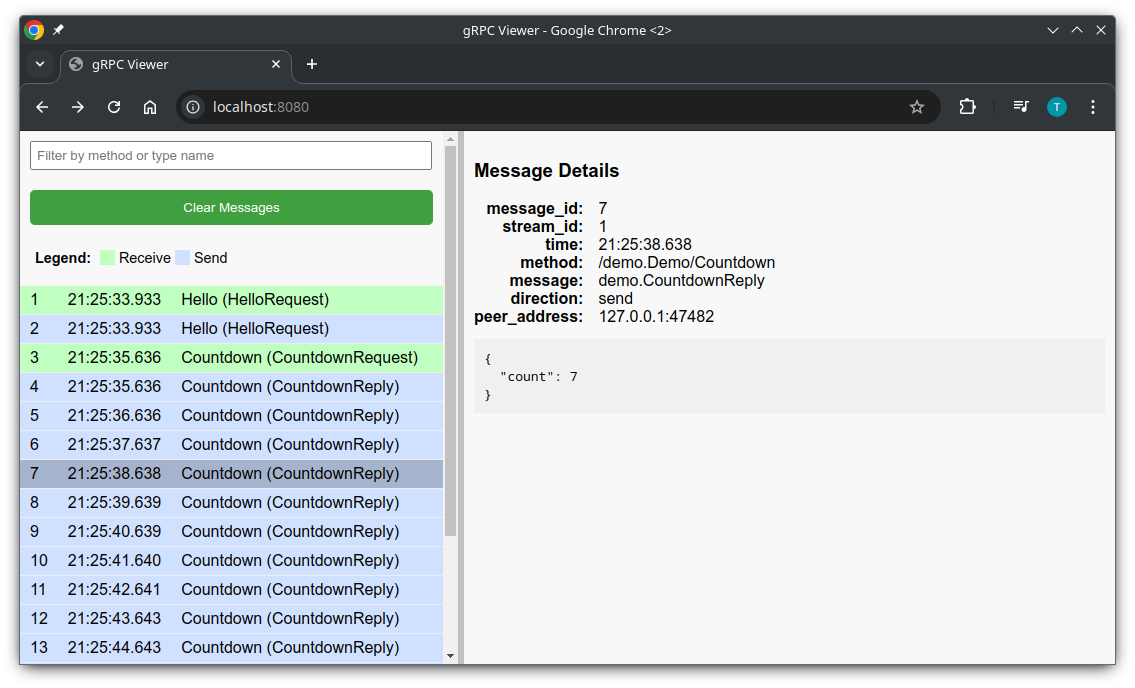
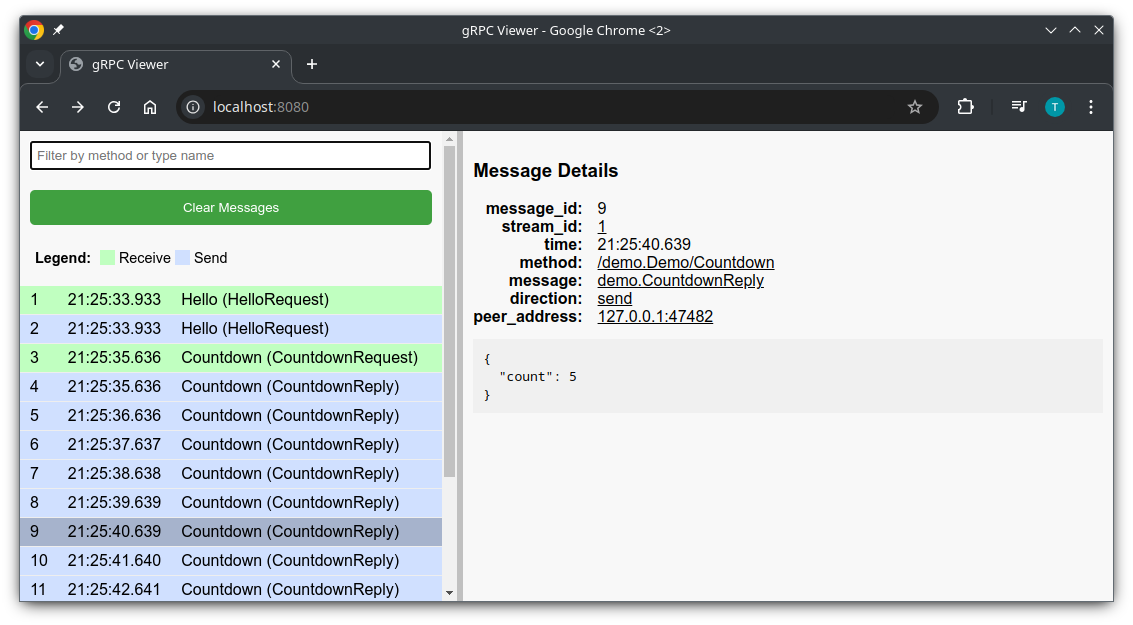
added keyboard navigation and links for search

diff --git a/public/grpc-viewer.js b/public/grpc-viewer.js
@@ -43,16 +43,19 @@ class GrpcViewer {
     matchesFilter(msg, filter) {
         if (!filter) return true;
         if (filter.includes(":")) {
-            const parts = filter.split(":");
-            if (parts.length >= 2) {
-                const key = parts[0].trim().toLowerCase();
-                const value = parts[1].trim().toLowerCase();
-                if (key in msg) {
-                    return String(msg[key]).toLowerCase() == value;
-                }
+            const colonIndex = filter.indexOf(":");
+            const key = filter.substring(0, colonIndex).trim().toLowerCase();
+            const value = filter.substring(colonIndex + 1).trim().toLowerCase();
+            if (key in msg) {
+                return String(msg[key]).toLowerCase() == value;
             }
         }
-        return Object.values(msg).some(val => String(val).toLowerCase().includes(filter));
+        return msg.method.toLowerCase().includes(filter) || msg.message.toLowerCase().includes(filter);
+    }
+
+    getFilteredMessages() {
+        const filterQuery = this.filterInput.value.trim().toLowerCase();
+        return this.messages.filter(msg => this.matchesFilter(msg, filterQuery));
     }
 
     renderMessageList() {
@@ -97,25 +100,35 @@ class GrpcViewer {
 
         details.querySelector('#message-details-message-id-value').textContent = msg.message_id;
         details.querySelector('#message-details-timestamp-value').textContent = this.formatTimestamp(msg.time);
-        details.querySelector('#message-details-method-value').textContent = msg.method;
-        details.querySelector('#message-details-message-value').textContent = msg.message;
-        details.querySelector('#message-details-direction-value').textContent = msg.direction;
-        details.querySelector('#message-details-peer-address-value').textContent = msg.peer_address;
-        details.querySelector('#message-details-error-value').textContent = msg.error;
+        details.querySelector('#message-details-method-value').appendChild(this.createFilterLink("method", msg.method));
+        details.querySelector('#message-details-message-value').appendChild(this.createFilterLink("message", msg.message));
+        details.querySelector('#message-details-direction-value').appendChild(this.createFilterLink("direction", msg.direction));
+        details.querySelector('#message-details-peer-address-value').appendChild(this.createFilterLink("peer_address", msg.peer_address));
         details.querySelector('#message-details-payload-value').textContent = JSON.stringify(msg.content, null, 2);
 
         // Optional fields.
         if ("stream_id" in msg) {
             details.querySelector('#message-details-stream-id').classList.remove("hidden");
-            details.querySelector('#message-details-stream-id-value').textContent = msg.stream_id;
+            details.querySelector('#message-details-stream-id-value').appendChild(this.createFilterLink('stream_id', msg.stream_id));
         }
         if ("error" in msg) {
             details.querySelector('#message-details-error').classList.remove("hidden");
-            details.querySelector('#message-details-error-value').textContent = msg.error;
+            details.querySelector('#message-details-error-value').appendChild(this.createFilterLink('error', msg.error));
         }
 
         this.detailsContent.innerHTML = '';
         this.detailsContent.appendChild(details);
+    }
+
+    createFilterLink(key, value) {
+        const link = document.createElement('a');
+        link.href = "#";
+        link.textContent = value;
+        link.addEventListener("click", (event) => {
+            event.preventDefault();
+            this.applyFilter(key, value);
+        });
+        return link;
     }
 
     clearMessages() {
@@ -132,6 +145,13 @@ class GrpcViewer {
 
         this.clearButton.addEventListener("click", () => {
             this.clearMessages();
+        });
+
+        document.addEventListener("keydown", (event) => {
+            if (event.key === "ArrowUp" || event.key === "ArrowDown") {
+                event.preventDefault();
+                this.handleArrowKey(event);
+            }
         });
     }
 
@@ -164,6 +184,32 @@ class GrpcViewer {
         document.addEventListener("mouseup", (e) => {
             isResizing = false;
         });
+    }
+
+    handleArrowKey(event) {
+        const filteredMessages = this.getFilteredMessages();
+        if (filteredMessages.length === 0) return;
+
+        let selectedIndex = filteredMessages.findIndex(msg => msg.message_id === this.selectedMessageId);
+
+        if (event.key === "ArrowUp") {
+            selectedIndex--;
+            if (selectedIndex < 0) selectedIndex = 0;
+        } else if (event.key === "ArrowDown") {
+            selectedIndex++;
+            if (selectedIndex >= filteredMessages.length) selectedIndex = filteredMessages.length - 1;
+        }
+
+        this.selectedMessageId = filteredMessages[selectedIndex].message_id;
+        this.renderMessageList();
+        const selectedMessage = this.messages.find(msg => msg.message_id === this.selectedMessageId);
+        this.renderMessageDetails(selectedMessage);
+    }
+
+    applyFilter(key, value) {
+        const filterString = `${key}: ${value}`;
+        this.filterInput.value = filterString;
+        this.renderMessageList();
     }
 }
 

diff --git a/public/grpc-viewer.css b/public/grpc-viewer.css
@@ -19,6 +19,10 @@ body {
   background-color: var(--background-color);
 }
 
+a {
+  color: black;
+}
+
 #message-list-panel {
   width: 40%;
   min-width: var(--message-list-min-width);
